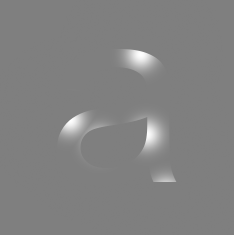
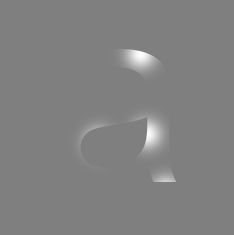
add naturalistic example

Changed region(s): [[0.2393, 0.4766, 0.3889, 0.5957]]

diff --git a/bubbles.py b/bubbles.py
@@ -50,7 +50,7 @@ def apply_mask(im, mask, bg=0):
      Keyword arguments:
     im -- the original image
     mask -- the mask to apply to the image
-    bg -- value for the background, from 0 to 255. Can also be an array of 3 values from 0 to 255, for RGB
+    bg -- value for the background, from 0 to 255. Can also be an array of 3 values from 0 to 255, for RGB, or 4 values for RGBA
     """
     
     sh = np.asarray(im).shape
@@ -85,7 +85,7 @@ def bubbles_mask (im, mu_x=None, mu_y=None, sigma=np.repeat(25, repeats=5), bg=0
     mu_x -- x indices (axis 1 in numpy) for bubble locations - set to None (default) for random location
     mu_y -- y indices (axis 0 in numpy) for bubble locations - set to None (default) for random location
     sigma -- array of sigmas for the spread of the bubbles. `n` is inferred from this array
-    bg -- value for the background, from 0 to 255. Can also be an array of 3 values from 0 to 255, for RGB
+    bg -- value for the background, from 0 to 255. Can also be an array of 3 values from 0 to 255, for RGB, or 4 values, for RGBA
     scale -- should densities' maxima be consistently scaled across different sigma values?
     """
     
@@ -188,7 +188,7 @@ if __name__ == "__main__":
     
     parser.add_argument('-y', '--mu_y', nargs='+', help='y indices (axis 0 in numpy) for bubble locations, in space-separated format - leave blank (default) for random location', type=float)
     
-    parser.add_argument('-b', '--background', help='the desired background for the image, from 0 to 255 (default=0)',
+    parser.add_argument('-b', '--background', nargs='+', help='the desired background for the image, as a single integer from 0 to 255 (default=0), or space-separated values for each channel in the image',
                         action='store', type=int, default=0)
     
     parser.add_argument('--unscaled', help='do not scale the densities of the bubbles to have the same maxima',

diff --git a/examples.py b/examples.py
@@ -18,16 +18,16 @@ fig = plt.figure(figsize=(0.8, 1.2))
 plt.imshow(mask)
 fig.savefig(op.join('examples', 'face1_mask.png'), dpi=300, bbox_inches='tight')
 
-# %% Example 2 - face's eye
+# %% Example 2 - face's eyes
 
-face2 = bubbles.bubbles_mask(im=face, mu_x=[85], mu_y=[182.5], sigma=[20], bg=127)[0]
+face2 = bubbles.bubbles_mask(im=face, mu_x=[85, 186.7], mu_y=[182.5, 182.5], sigma=[20, 10], bg=127)[0]
 face2.save(op.join('examples', 'face2.png'))
 
 # %% Example 3 - letter a
 
 a = Image.open(op.join('img', 'a.png'))
 
-a1, mask, mu_x, mu_y, sigma = bubbles.bubbles_mask_nonzero(im=a, sigma=[10,10,10,10,10], bg=127, max_sigma_from_nonzero=2)
+a1, mask, mu_x, mu_y, sigma = bubbles.bubbles_mask_nonzero(im=a, sigma=[10,10,10,10], bg=127, max_sigma_from_nonzero=2)
 
 a1.save(op.join('examples', 'a1.png'))
 
@@ -43,4 +43,14 @@ a_arr[:,:,1] = 0
 a_arr[:,:,2] = mask * 255
 Image.fromarray(a_arr).save(op.join('examples', 'a2_locs.png'))
 
+# %% Example 4 - cat
+
+cat = Image.open(op.join('img', 'cat.png'))
+cat1 = bubbles.bubbles_mask(im=cat, sigma=np.repeat(25, 10), bg=127)[0]
+cat2 = bubbles.bubbles_mask(im=cat, sigma=np.repeat(25, 10), bg=0)[0]
+cat3 = bubbles.bubbles_mask(im=cat, sigma=np.repeat(25, 10), bg=[127, 0, 127])[0]
+
+cat1.save(op.join('examples', 'cat1.png'))
+cat2.save(op.join('examples', 'cat2.png'))
+cat3.save(op.join('examples', 'cat3.png'))
 

diff --git a/README.md b/README.md
@@ -10,6 +10,7 @@ All functions are provided in module `bubbles.py`
 
 ```python
 import bubbles
+import os.path as op
 from PIL import Image
 ```
 
@@ -62,10 +63,13 @@ print(sigma)
 
 ## Specifying Bubble Locations
 
-By default, `bubbles_mask()` will position bubbles randomly in the image. The exact desired locations of bubbles can be specified via the `mu_x` and `mu_y` arguments. Here I specify a bubble to be centred on the left eye. Note that `mu_x` and `mu_y` can be floats.
+By default, `bubbles_mask()` will position bubbles randomly in the image. The exact desired locations of bubbles can be specified via the `mu_x` and `mu_y` arguments. Here I specify two bubbles to be centred on eyes, with different sigma values, of 20 and 10. Note that `mu_x` and `mu_y` can be floats.
 
 ```python
-face2 = bubbles.bubbles_mask(im=face, mu_x=[85], mu_y=[182.5], sigma=[20], bg=127)[0]
+face2 = bubbles.bubbles_mask(
+    im=face, mu_x=[85, 186.7], mu_y=[182.5, 182.5], sigma=[20, 10], bg=127
+)[0]
+
 face2.show()
 ```
 
@@ -84,7 +88,7 @@ The usage is similar to `bubbles_mask()`, but with additional argument `max_sigm
 a = Image.open(op.join('img', 'a.png'))
 
 a1 = bubbles.bubbles_mask_nonzero(
-    im=a, sigma=[10,10,10,10,10], bg=127, max_sigma_from_nonzero=2
+    im=a, sigma=[10,10,10,10], bg=127, max_sigma_from_nonzero=2
 )[0]
 
 a.show(); a1.show()
@@ -110,6 +114,25 @@ Image.fromarray(a_arr).show()
 ![](examples/a2_locs.png)
 
 Note: you can also specify a reference image, `ref_im`, from which the background pixels in `im` should be identified. This is useful in cases where `im` has already been altered (e.g., phase-randomised).
+
+## Naturalistic Images
+
+Typical stimuli using the Bubbles technique use artificial stimuli on grey backgrounds, but this method can also be applied to more naturalistic, colour stimuli, with the background defined by the `bg` argument.
+
+```python
+cat = Image.open(op.join('img', 'cat.jpg'))
+
+cat1 = bubbles.bubbles_mask(im=cat, sigma=np.repeat(25, 10), bg=127)[0]
+cat2 = bubbles.bubbles_mask(im=cat, sigma=np.repeat(25, 10), bg=0)[0]
+cat3 = bubbles.bubbles_mask(im=cat, sigma=np.repeat(25, 10), bg=[127, 0, 127])[0]
+
+cat.show(); cat1.show(); cat2.show(); cat3.show()
+```
+
+![](img/cat.png)
+![](examples/cat1.png)
+![](examples/cat2.png)
+![](examples/cat3.png)
 
 ## Command Line Interface
 
